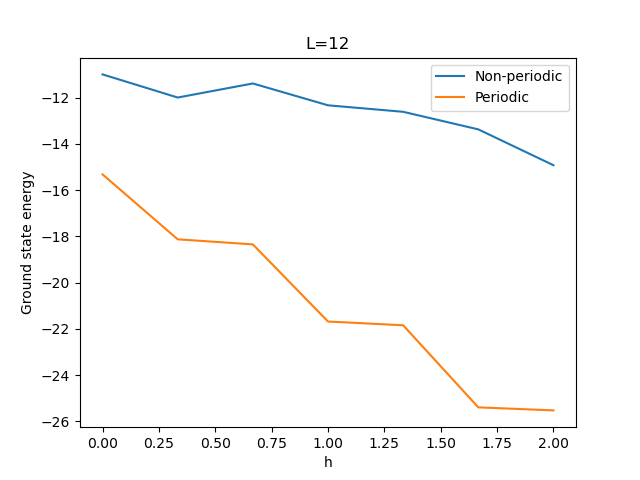
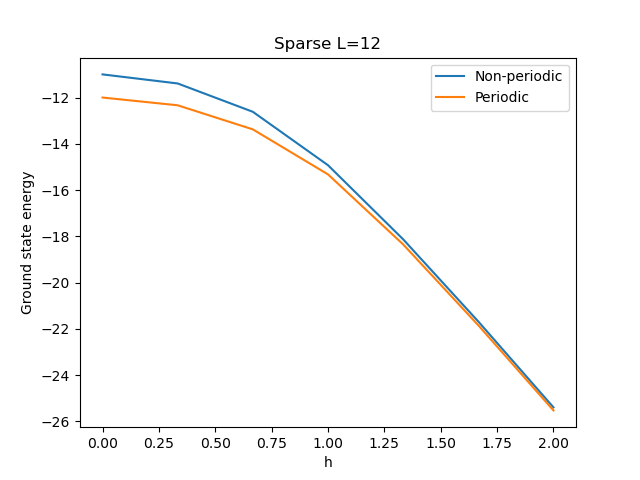
finished sparse

diff --git a/classes/caltech/sp24/ph121c/hw1/2024_04_03_33b78bc8baad5b3f436cg/hw1.py b/classes/caltech/sp24/ph121c/hw1/2024_04_03_33b78bc8baad5b3f436cg/hw1.py
@@ -75,39 +75,51 @@ def sparse_hamiltonian(L, h, J=1, periodic=False):
     for i in range(2**L):
         # turn that index into a binary string
         bi = binary_string(i, L)
-        # loop over the index j
-        for j in range(i, 2**L):
-            # turn that index into a binary string
-            bj = binary_string(j, L)
-            # if i == j, we are on the diagonal and we want to add all the interactions in the chain
-            if i == j:
-                total_interaction = 0
-                # initialize the loop range based on the boundary conditions
-                loop_range = L if periodic else L - 1
-                # loop over the spins in the chain i.e. loop_range
-                for k in range(loop_range):
-                    # Handle periodic boundary by wrapping the index
-                    next_k = (k + 1) % L if periodic else k + 1
-                    # Add neighbor interaction based on the spin values
-                    total_interaction += -J * (1 if bi[k] == bi[next_k] else -1)
-                # tabulate the entries
-                if total_interaction != 0:
-                    row.append(i)
-                    col.append(j)
-                    data.append(total_interaction)
-            else:  # Off-diagonal elements, only for transverse field flips
-                diff = [bj != bi for bj, bi in zip(bj, bi)]
-                # Only one bit/spin differs
-                if sum(diff) == 1:  
-                    transverse_contribution = -h
-                    # Transverse field contribution
-                    row.append(i)
-                    col.append(j)
-                    data.append(transverse_contribution)
+
+        # to the diagonal element first
+        total_interaction = 0
+        # initialize the loop range based on the boundary conditions
+        loop_range = L if periodic else L - 1
+        for k in range(loop_range):
+            # Handle periodic boundary by wrapping the index
+            next_k = (k + 1) % L if periodic else k + 1
+            # Add neighbor interaction based on the spin values
+            total_interaction += -J * (1 if bi[k] == bi[next_k] else -1)
+        row.append(i)
+        col.append(i)
+        data.append(total_interaction)
+
+        # now consider the off-diagonal elements connected by a single spin flip
+        # make a function that takes the bit i and returns a list of basis states connected by a single flip
+        def flip(i):
+            connected_bases_states = []
+            for j in range(L):
+                flip_i = i ^ (1 << j)
+                connected_bases_states.append(flip_i)
+            return connected_bases_states
+        
+        # loop over the connected basis states
+        for flip_i in flip(i):
+            row.append(i)
+            col.append(flip_i)
+            data.append(-h)       
 
     # Create a sparse matrix from the lists
     H = scipy.sparse.coo_matrix((data, (row, col)), shape=(2**L, 2**L))
     return H
+
+# # com[are dense] and sparse open hamiltonaian matrices for L=4 and h=1
+# L = 4
+# h = 1
+# dense = open_dense_hamiltonian_explicit(L, h)
+# sparse = sparse_hamiltonian(L, h).toarray()
+# # make a port of the differences and the piecewise elements of both matrices so that it is easy to find the discrepancies
+# plt.figure()
+# plt.imshow(dense - sparse, cmap='seismic', vmin=-1, vmax=1)  # Adjust vmin and vmax as needed
+# plt.colorbar()
+# plt.title('Differences between dense and sparse Hamiltonians')
+# plt.savefig('dense_sparse_diff.png')
+
 
 
 L = [8, 10, 12, 14]
@@ -115,18 +127,19 @@ h_range = np.linspace(0, 2, 7)  # Generates 8 values of h from 0 to 2
 
 for l in L:
     plt.figure()
-    plt.title(f'L={l}')
-    ground_state_energies = []  # To store ground state energies for different h
+    plt.title(f'Sparse L={l}')
+    open_ground_state_energies = []  # To store ground state energies for different h
+    periodic_ground_state_energies = []  # To store ground state energies for different h
     for hi in h_range:
         # for the given hi, comupte gs energy for both periodic and non-periodic
         H = sparse_hamiltonian(l, hi)
         H_periodic = sparse_hamiltonian(l, hi, periodic=True)
         # Compute the ground state energy using the lowest eigenvalue
-        ground_state_energies.append(min(scipy.sparse.linalg.eigsh(H, k=1, which='SA')[0]))
-        ground_state_energies.append(min(scipy.sparse.linalg.eigsh(H_periodic, k=1, which='SA')[0]))
+        open_ground_state_energies.append(min(scipy.sparse.linalg.eigsh(H, k=1, which='SA')[0]))
+        periodic_ground_state_energies.append(min(scipy.sparse.linalg.eigsh(H_periodic, k=1, which='SA')[0]))
     # plot the ground state energy as a function of h for both periodic and non-periodic
-    plt.plot(h_range, ground_state_energies[:len(h_range)], label='Non-periodic')
-    plt.plot(h_range, ground_state_energies[len(h_range):], label='Periodic')
+    plt.plot(h_range, open_ground_state_energies, label='Non-periodic')
+    plt.plot(h_range, periodic_ground_state_energies, label='Periodic')
     plt.xlabel('h')
     plt.ylabel('Ground state energy')
     plt.legend()
@@ -135,7 +148,7 @@ for l in L:
 
 for l in L:
     plt.figure()
-    plt.title(f'L={l}')
+    plt.title(f'Dense L={l}')
     open_ground_state_energies = []  # To store ground state energies for different h
     periodic_ground_state_energies = []  # To store ground state energies for different h
     for hi in h_range:
